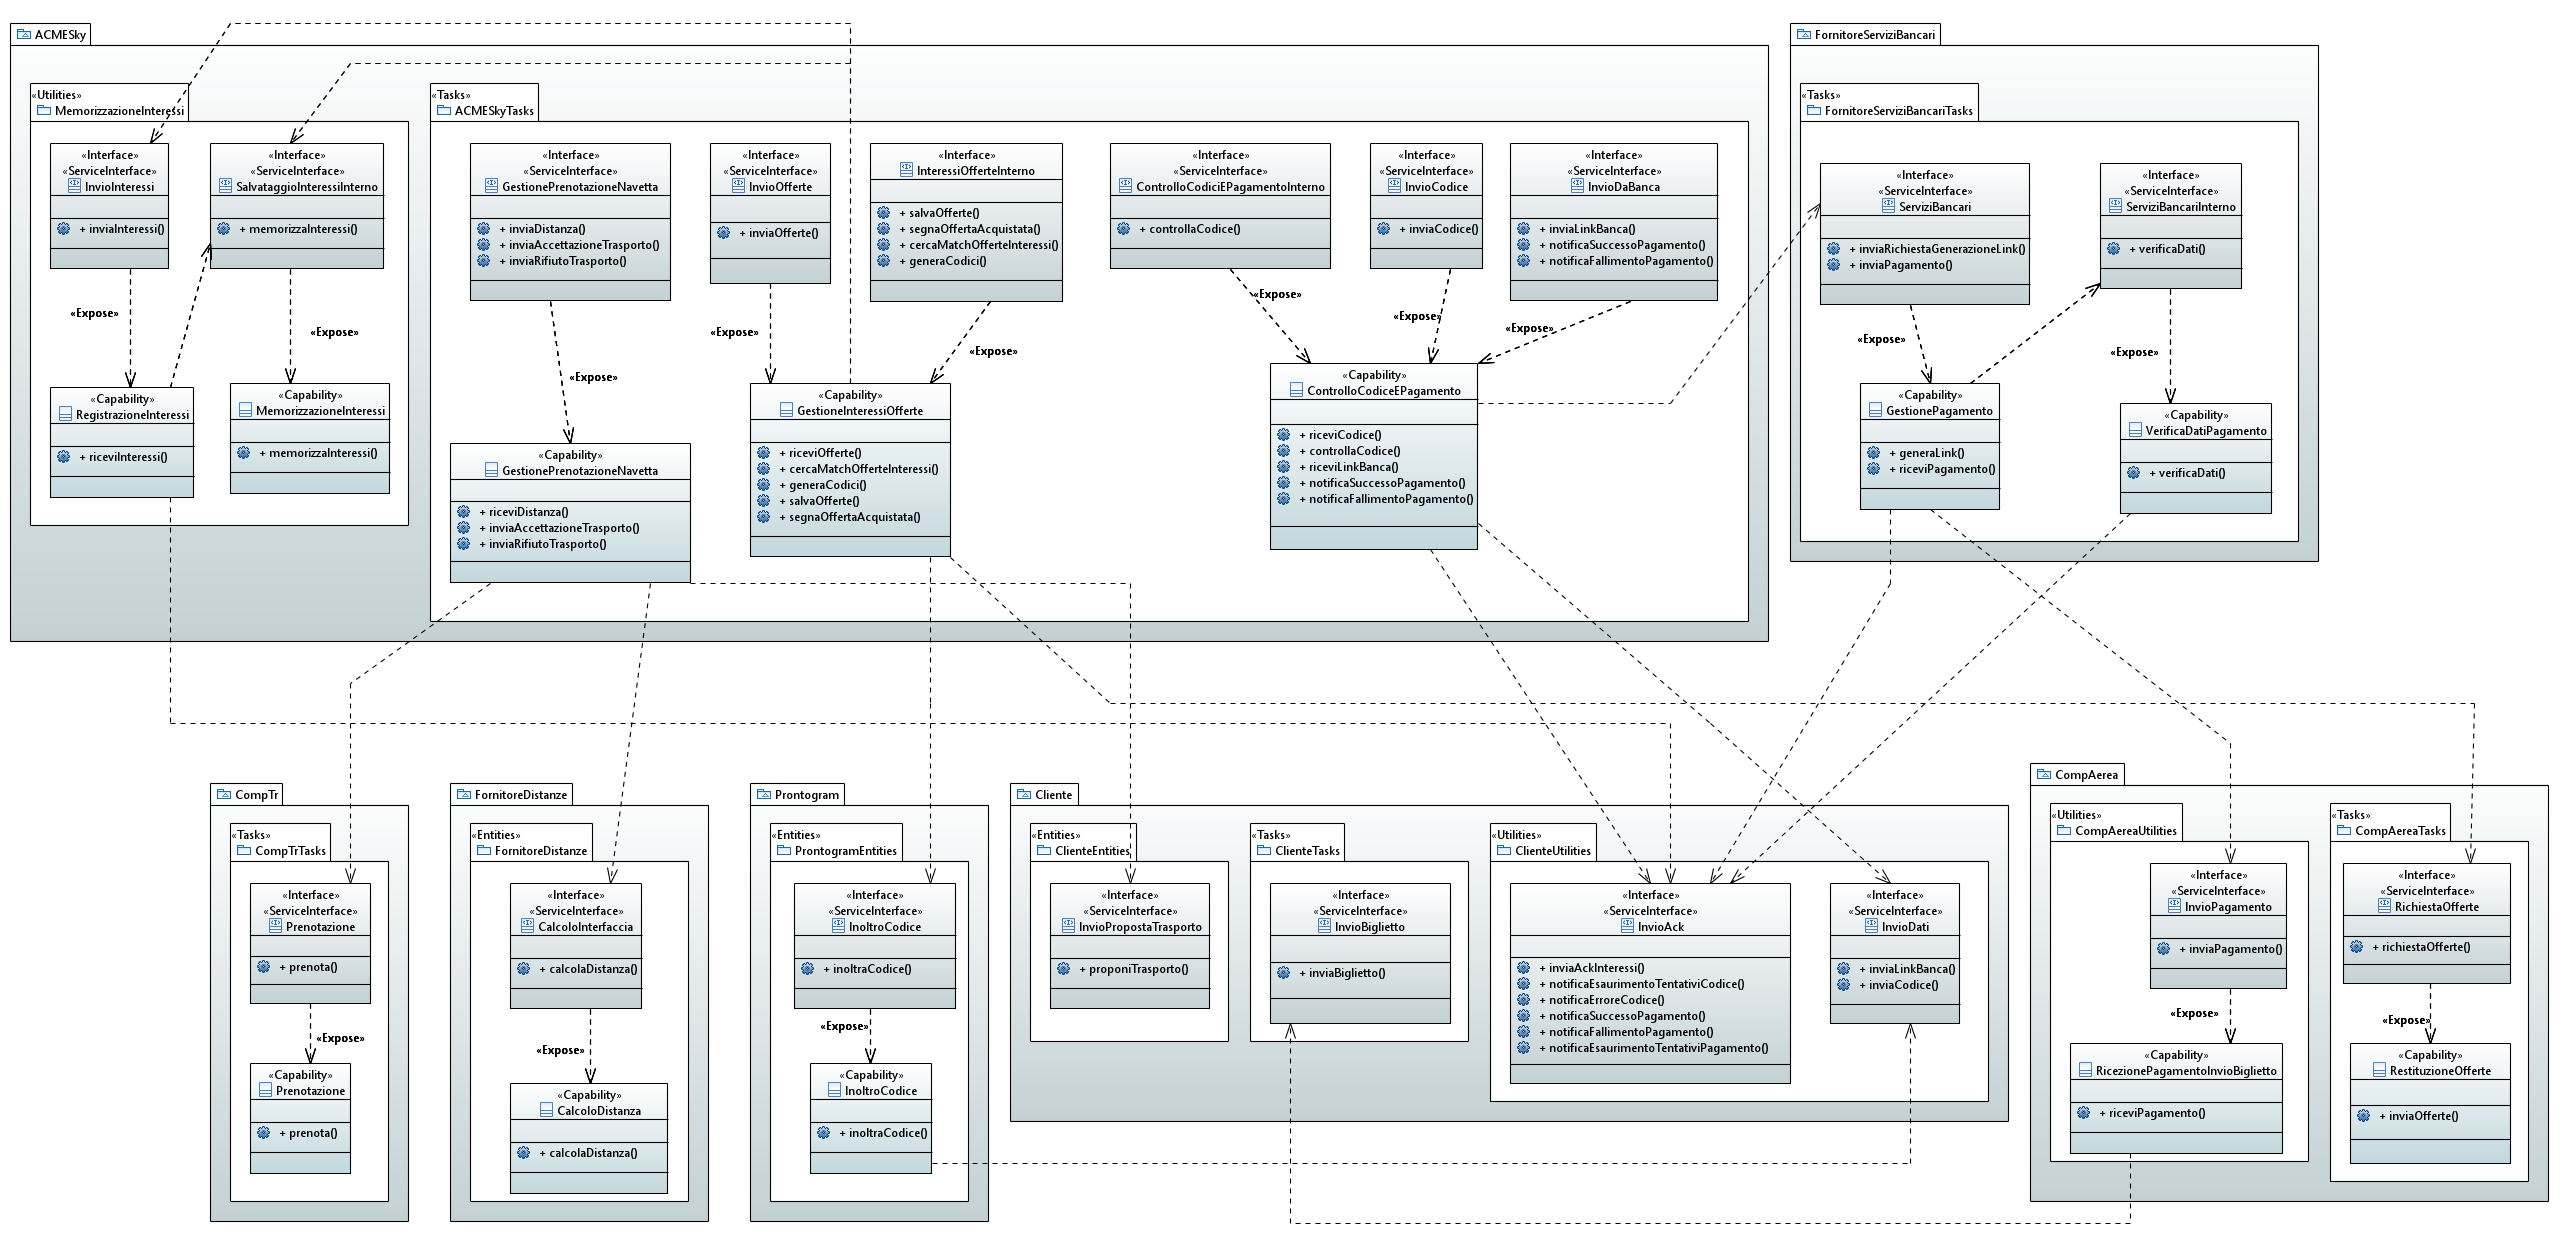
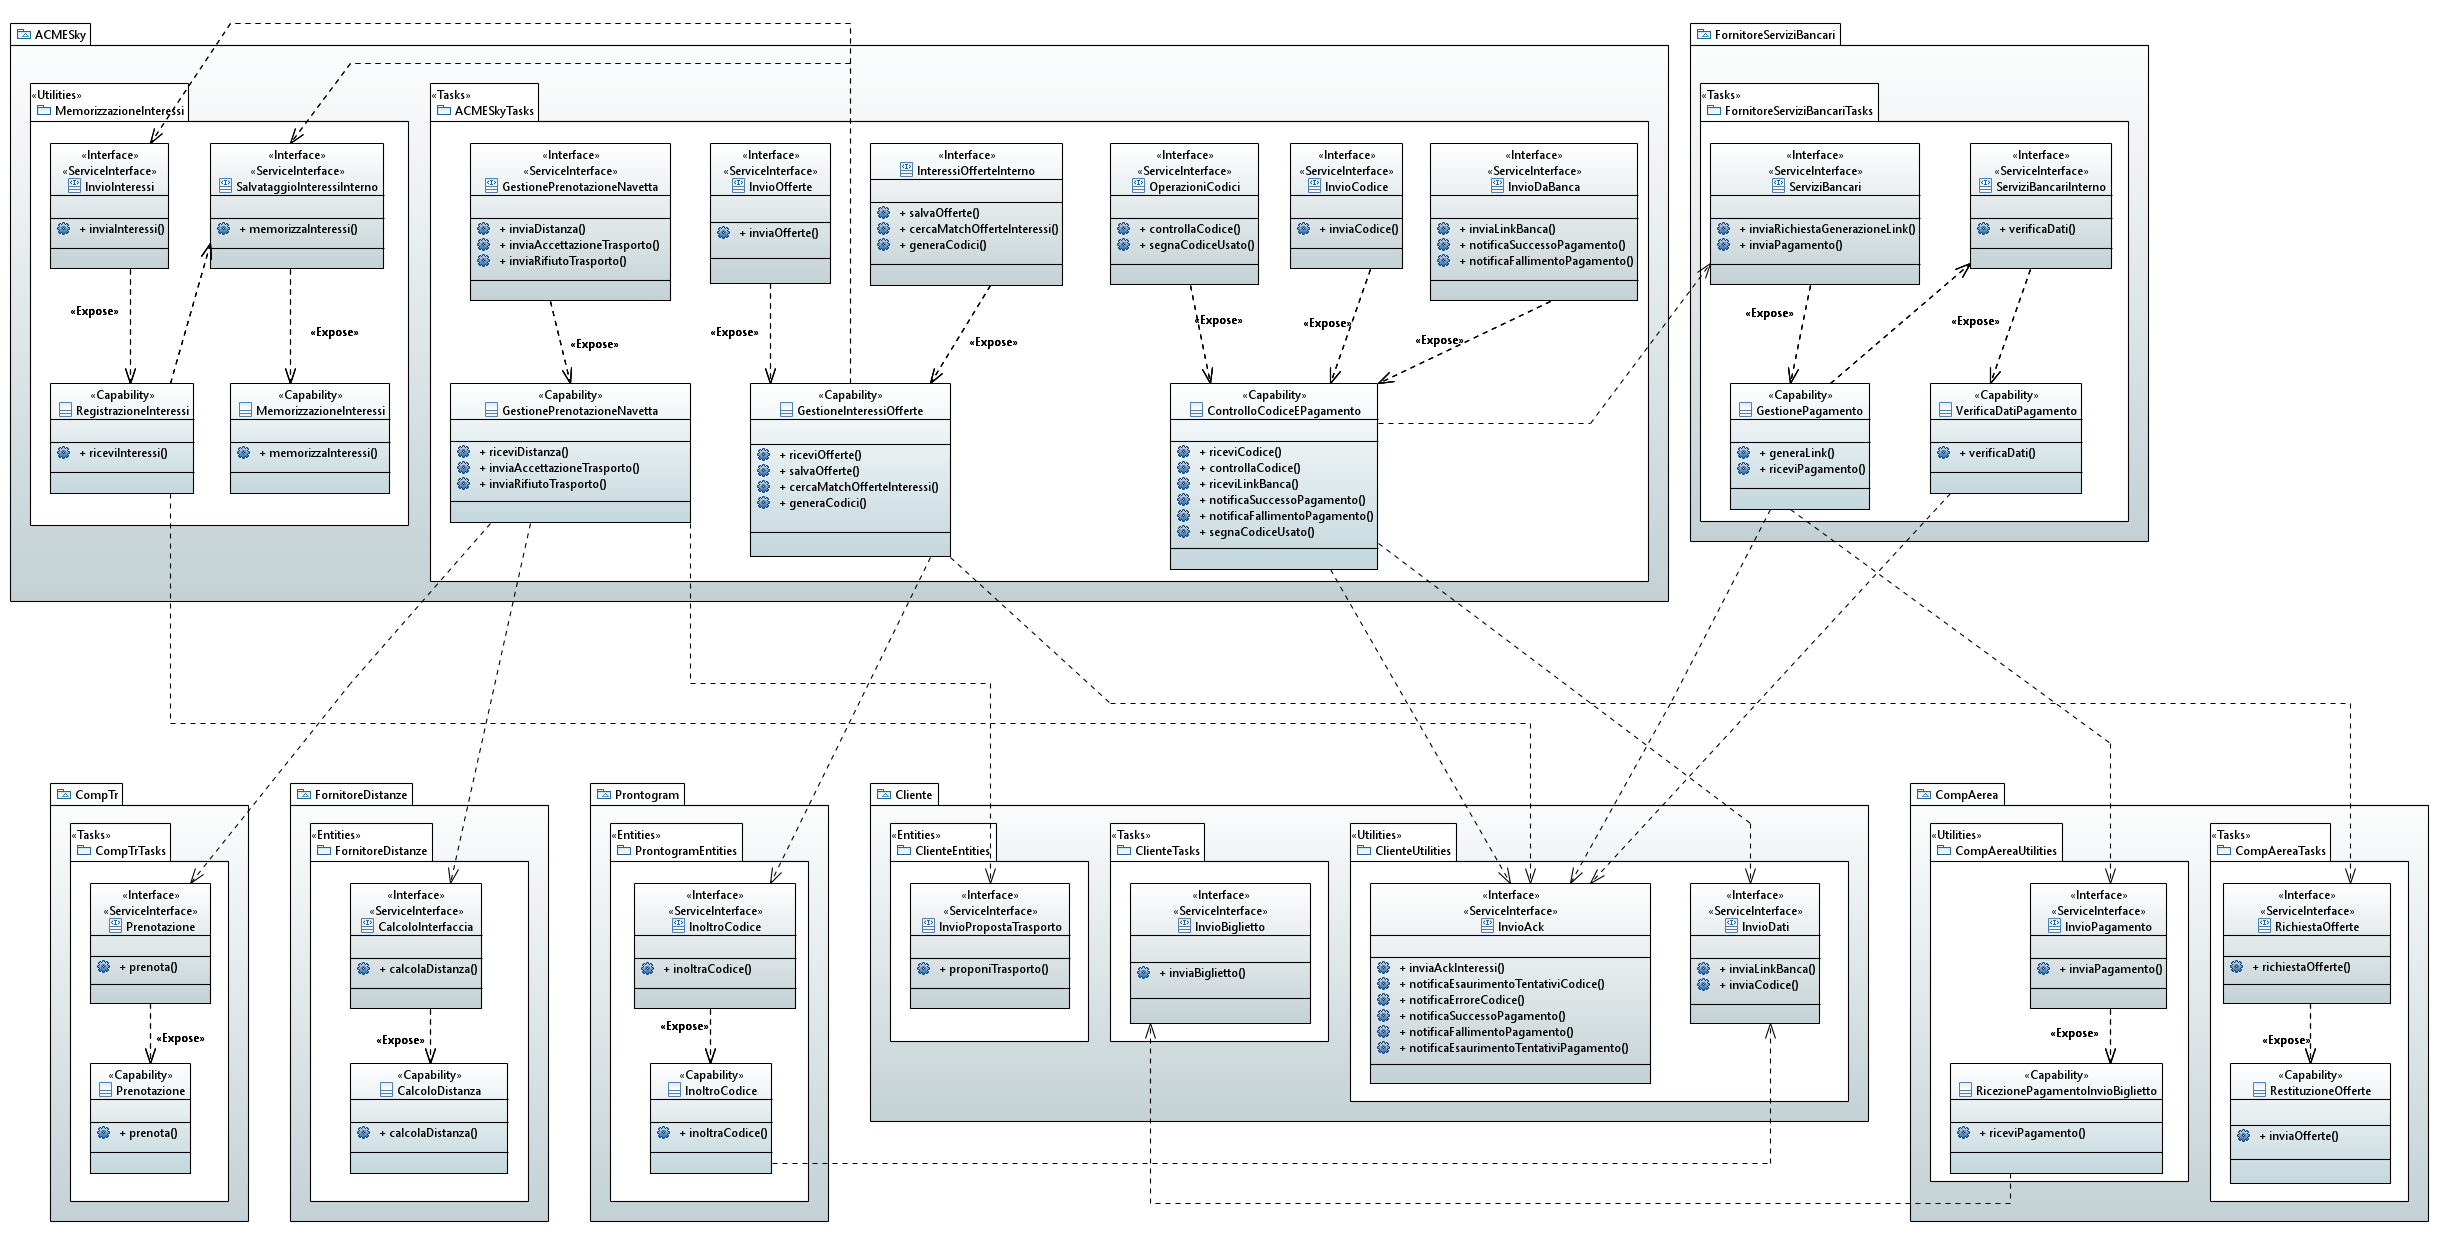
Modified 4 files

diff --git a/docs/5-modello-UML.md b/docs/5-modello-UML.md
@@ -24,7 +24,7 @@ Per una maggiore chiarezza, articoliamo anche la trattazione sul modello UML nel
  "Modello UML relativo alla registrazione degli interessi degli utenti")
 
 In questa parte, le capability essenziali sono quelle di ACMESky:
-- `MemorizzazioneInteressi` rende persistenti gli interessi registrati  ed è esposta dall'interfaccia **salvataggioInteressiInterno**, la quale presenta l'operazione *inviaInteressi* che viene invocata internamente da ACMESky per rendere persistenti gli interessi;
+- `MemorizzazioneInteressi` rende persistenti gli interessi registrati ed è esposta dall'interfaccia **salvataggioInteressiInterno**, la quale presenta l'operazione *inviaInteressi* che viene invocata internamente da ACMESky per rendere persistenti gli interessi;
 - `RegistrazioneInteressi` realizza la registrazione degli interessi dell'utente ed è esposta dall'interfaccia **invioInteressi**, la quale presenta l'operazione *inviaInteressi* che viene invocata dall'utente per specificare i propri interessi;
   - questa capability necessita delle interfacce **salvataggioInteressiInterno** di cui sopra e **invioAck** del Cliente, in quanto, per finalizzare la registrazione degli interessi, ne deve notificare all'utente l'esito della ricezione e deve renderli persistenti.
 
@@ -32,30 +32,42 @@ In questa parte, le capability essenziali sono quelle di ACMESky:
 ![Modello UML con profilo TinySOA](https://github.com/MickPerl/soseng-project-documentation/blob/master/assets/images/UML_richiesta_inoltro.png?raw=true
  "Modello UML relativo alla richiesta e all'inoltro delle offerte")
 Questa parte attiene alle seguenti attività:
-- la richiesta delle offerte attive alle compagnie aeree da parte di ACMESky;
-- la ricerca di corrispondenze tra le offerte e gli interessi degli utenti;
-- l'invio delle offerte che incontrano gli interessi di qualche utente a Prontogram da parte di ACMESky;
-- l'inoltro delle offerte agli utenti interessati da parte di Prontogram.
+1. la richiesta delle offerte attive alle compagnie aeree da parte di ACMESky;
+2. la ricezione e il salvataggio delle offerte da parte di ACMESky;
+3. la ricerca di corrispondenze tra le offerte e gli interessi degli utenti;
+4. l'invio delle offerte che incontrano gli interessi di qualche utente a Prontogram da parte di ACMESky;
+5. l'inoltro delle offerte agli utenti interessati da parte di Prontogram.
 
 Come già esplicitato nella sezione delle coreografie, per ogni offerta, ACMESky invia a Prontogram una *descrizione*, il/i *cliente/i cui è indirizzata* e tanti *codici* quanti sono i clienti destinatari, ognuno dei quali individua univocamente l'offerta e il cliente.
 
 Le capability coinvolte sono:
-- `GestioneCorrispondenzaOfferteInteressi` cerca match tra le offerte rivevute dalle compagnie aeree e : in dettaglio, le operazioni necessarie a realizzarla sono esposte da due interfacce diverse, **d** accessibile dall'esterno e **d**
-  - dipende dalle interfacce **InoltroCodice** di Prontogram e **RichiestaOfferte** della compagnia aerea, in quanto, per finalizzarsi, deve inoltrare 
+- `GestioneInteressiOfferte` è la capability di ACMESky, consistente nella ricezione e memorizzazione delle offerte ricevute dalle compagnie aeree, nella ricerca di match con gli interessi specificati dagli utenti e nella generazione di un codice per identificare la coppia offerta-utente: in dettaglio, le operazioni alla base sono esposte da due interfacce diverse, **InvioOfferte** che rende accessibile dall'esterno l'operazione *inviaOfferte* e **InteressiOfferteInterno** che rende accessibile internamente le operazioni *salvaOfferte*, *cercaMatchOfferteInteressi* e *generaCodici*;
+  - dipende dalle interfacce **InoltroCodice** di Prontogram e **RichiestaOfferte** della compagnia aerea, in quanto, per finalizzarsi, deve richiedere le offerte alle compagnie aeree, invocando l'operazione *richiestaOfferte* dall'interfaccia **RichiestaOfferte** che espone la capability `RestituzioneOfferte` delle compagnie aeree, e deve inoltrare i codici generati ai clienti corrispondenti mediante l'interfaccia di Prontogram;  
+- `InoltroCodice` è la capability di Prontogram tramite cui inoltra agli specifici clienti i codici ricevuti da ACMESky ed è esposta dall'interfaccia **InoltroCodice**, la quale presenta l'operazione *inoltraCodice* che viene invocata da ACMESky per rendere avviare l'inoltro dei codici ai clienti corrispondenti;
+  - dipende dall'interfaccia `InvioDati` del cliente in quanto, per finalizzarsi, deve invocare l'operazione *inviaCodice* tramite cui invia il codice al cliente.
 
 ## Ricezione e inoltro delle offerte LM
-Uguale a prima
+Questa parte, ai fini del modello UML in oggetto, è ricompresa nella parte precedente in quanto, le compagnie aeree che intendono comunicare delle offerte last minute ad ACMESky invocano l'operazione *inviaOfferte* dell'interfaccia **InvioOfferte** di ACMESky, ossia la stessa operazione invocata quando le compagnie aeree restituiscono le offerte attive on demand.
 
-L'operazione 
-Un'offerta last minute si distingue da una ordinaria per i seguenti aspetti:
-- l'offerta  
-
-
+Per distinguere un'offerta last minute da una ordinaria, abbiamo previsto nell'operazione *inviaOfferte* un campo booleano "LM": se la compagnia aerea nell'invocarla la setta a True allora invia delle offerte che saranno considerate da ACMESky come last minute, diversamente sono considerate ordinarie. 
 
 ## Acquisto offerta
 
 ![Modello UML con profilo TinySOA](https://raw.githubusercontent.com/MickPerl/soseng-project-documentation/master/assets/images/UML_acquista_offerta.png
  "Modello UML relativo alla richiesta e all'inoltro delle offerte")
+
+Questa parte attiene alle seguenti attività:
+1. 
+la ricezione del codice di ACMESky e il controllo della sua validità;
+la richiesta del link di pagamento al fornitore dei servizi bancari da parte di ACMESky e la sua ricezione di quest'ultimo;
+l'invio del link di pagamento al cliente da parte di ACMESky;
+l'invio dei dati di pagamento al fornitore dei servizi bancari da parte del cliente
+la verifica dei dati di pagamento;
+l'invio della notifica circa l'esito del pagamento ai clienti da parte dei fornitori dei servizi bancari;
+l'invio dei fornitori dei servizi bancari della quota del pagamento ad ACMESky;
+l'invio dei fornitori dei servizi bancari della quota del pagamento alla compagnia aerea;
+l'invio del biglietto al cliente da parte della compagnia aerea;
+la richiesta di ACMESky al fornitore delle distanze circa la distanza tra
 
 
  

diff --git a/docs/4-diagramma-BPMN.md b/docs/4-diagramma-BPMN.md
@@ -9,3 +9,19 @@ Per una maggiore chiarezza, articoliamo anche la trattazione sul modello UML nel
 - Richiesta delle offerte e inoltro;
 - Ricezione delle offerte LM e inoltro;
 - Acquisto del biglietto.
+
+## Registrazione interessi degli utenti
+
+## Richiesta e inoltro delle offerte
+
+
+Questa parte attiene alle seguenti attività:
+- la richiesta delle offerte attive alle compagnie aeree da parte di ACMESky;
+- la ricerca di corrispondenze tra le offerte e gli interessi degli utenti;
+- l'invio delle offerte che incontrano gli interessi di qualche utente a Prontogram da parte di ACMESky;
+- l'inoltro delle offerte agli utenti interessati da parte di Prontogram.
+
+
+## Ricezione e inoltro delle offerte LM
+
+## Acquisto offerta
